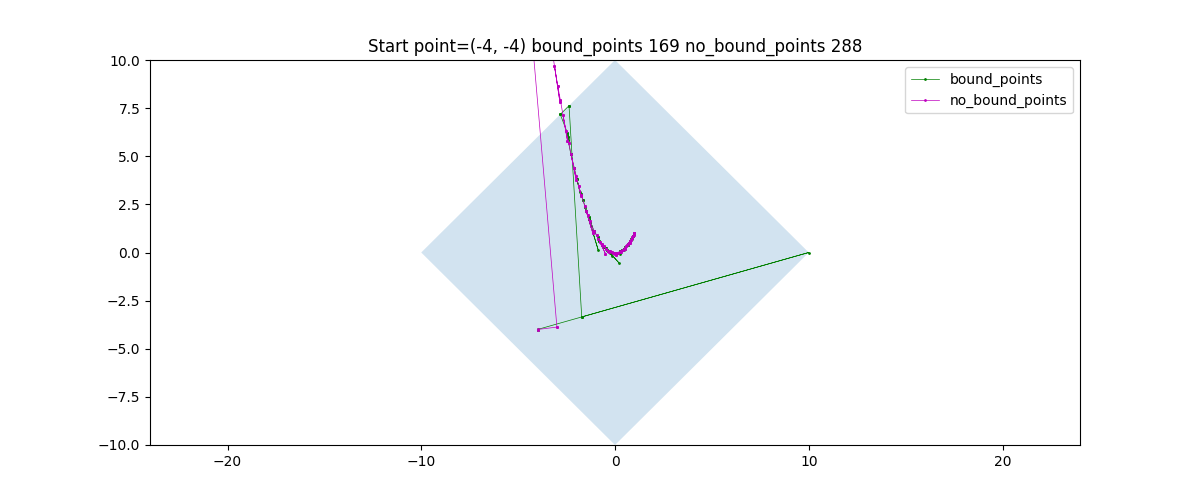
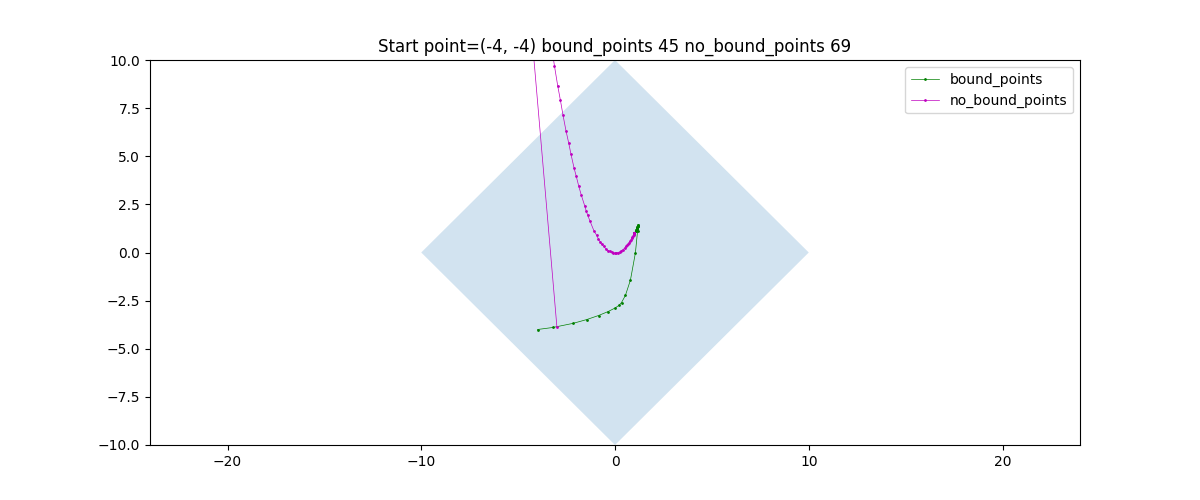
lab 4 extra task

diff --git a/lab4/third/lin/bad.py b/lab4/third/lin/bad.py
@@ -21,13 +21,15 @@ def minimize_with_linear_constraints():
     ub = np.array([10, np.inf, 10, np.inf])
     linear_constraint = LinearConstraint(A, lb=lb, ub=ub)
 
-    x0 = np.array([0, 7.5])
+    x0 = np.array([-20, 7])
 
-    path_storage_bounds = []
-    print(minimize(f(path_storage_bounds), x0, constraints=[linear_constraint]))
+    path_storage_bounds = [x0]
+    print(minimize(rosen,x0 , method="trust-constr",  constraints=[linear_constraint],
+                   callback=lambda x, ans_i: path_storage_bounds.append(x)))
 
-    path_storage_no_bounds = []
-    print(minimize(f(path_storage_no_bounds), x0))
+    path_storage_no_bounds = [x0]
+    print(minimize(rosen, x0,
+                   callback=lambda x: path_storage_no_bounds.append(x)))
 
     data = {
         'bound_points': path_storage_bounds,

diff --git a/lab4/third/lin/good.py b/lab4/third/lin/good.py
@@ -24,10 +24,11 @@ def minimize_with_linear_constraints():
     x0 = np.array([-4, -4])
 
     path_storage_bounds = []
-    print(minimize(f(path_storage_bounds), x0, constraints=[linear_constraint]))
+    print(minimize(rosen, x0,method="trust-constr", constraints=[linear_constraint],
+                   callback=lambda x, ans_i: path_storage_bounds.append(x)))
 
     path_storage_no_bounds = []
-    print( minimize(f(path_storage_no_bounds), x0))
+    print( minimize(rosen, x0, callback=lambda x: path_storage_no_bounds.append(x)))
 
     data = {
         'bound_points': path_storage_bounds,
